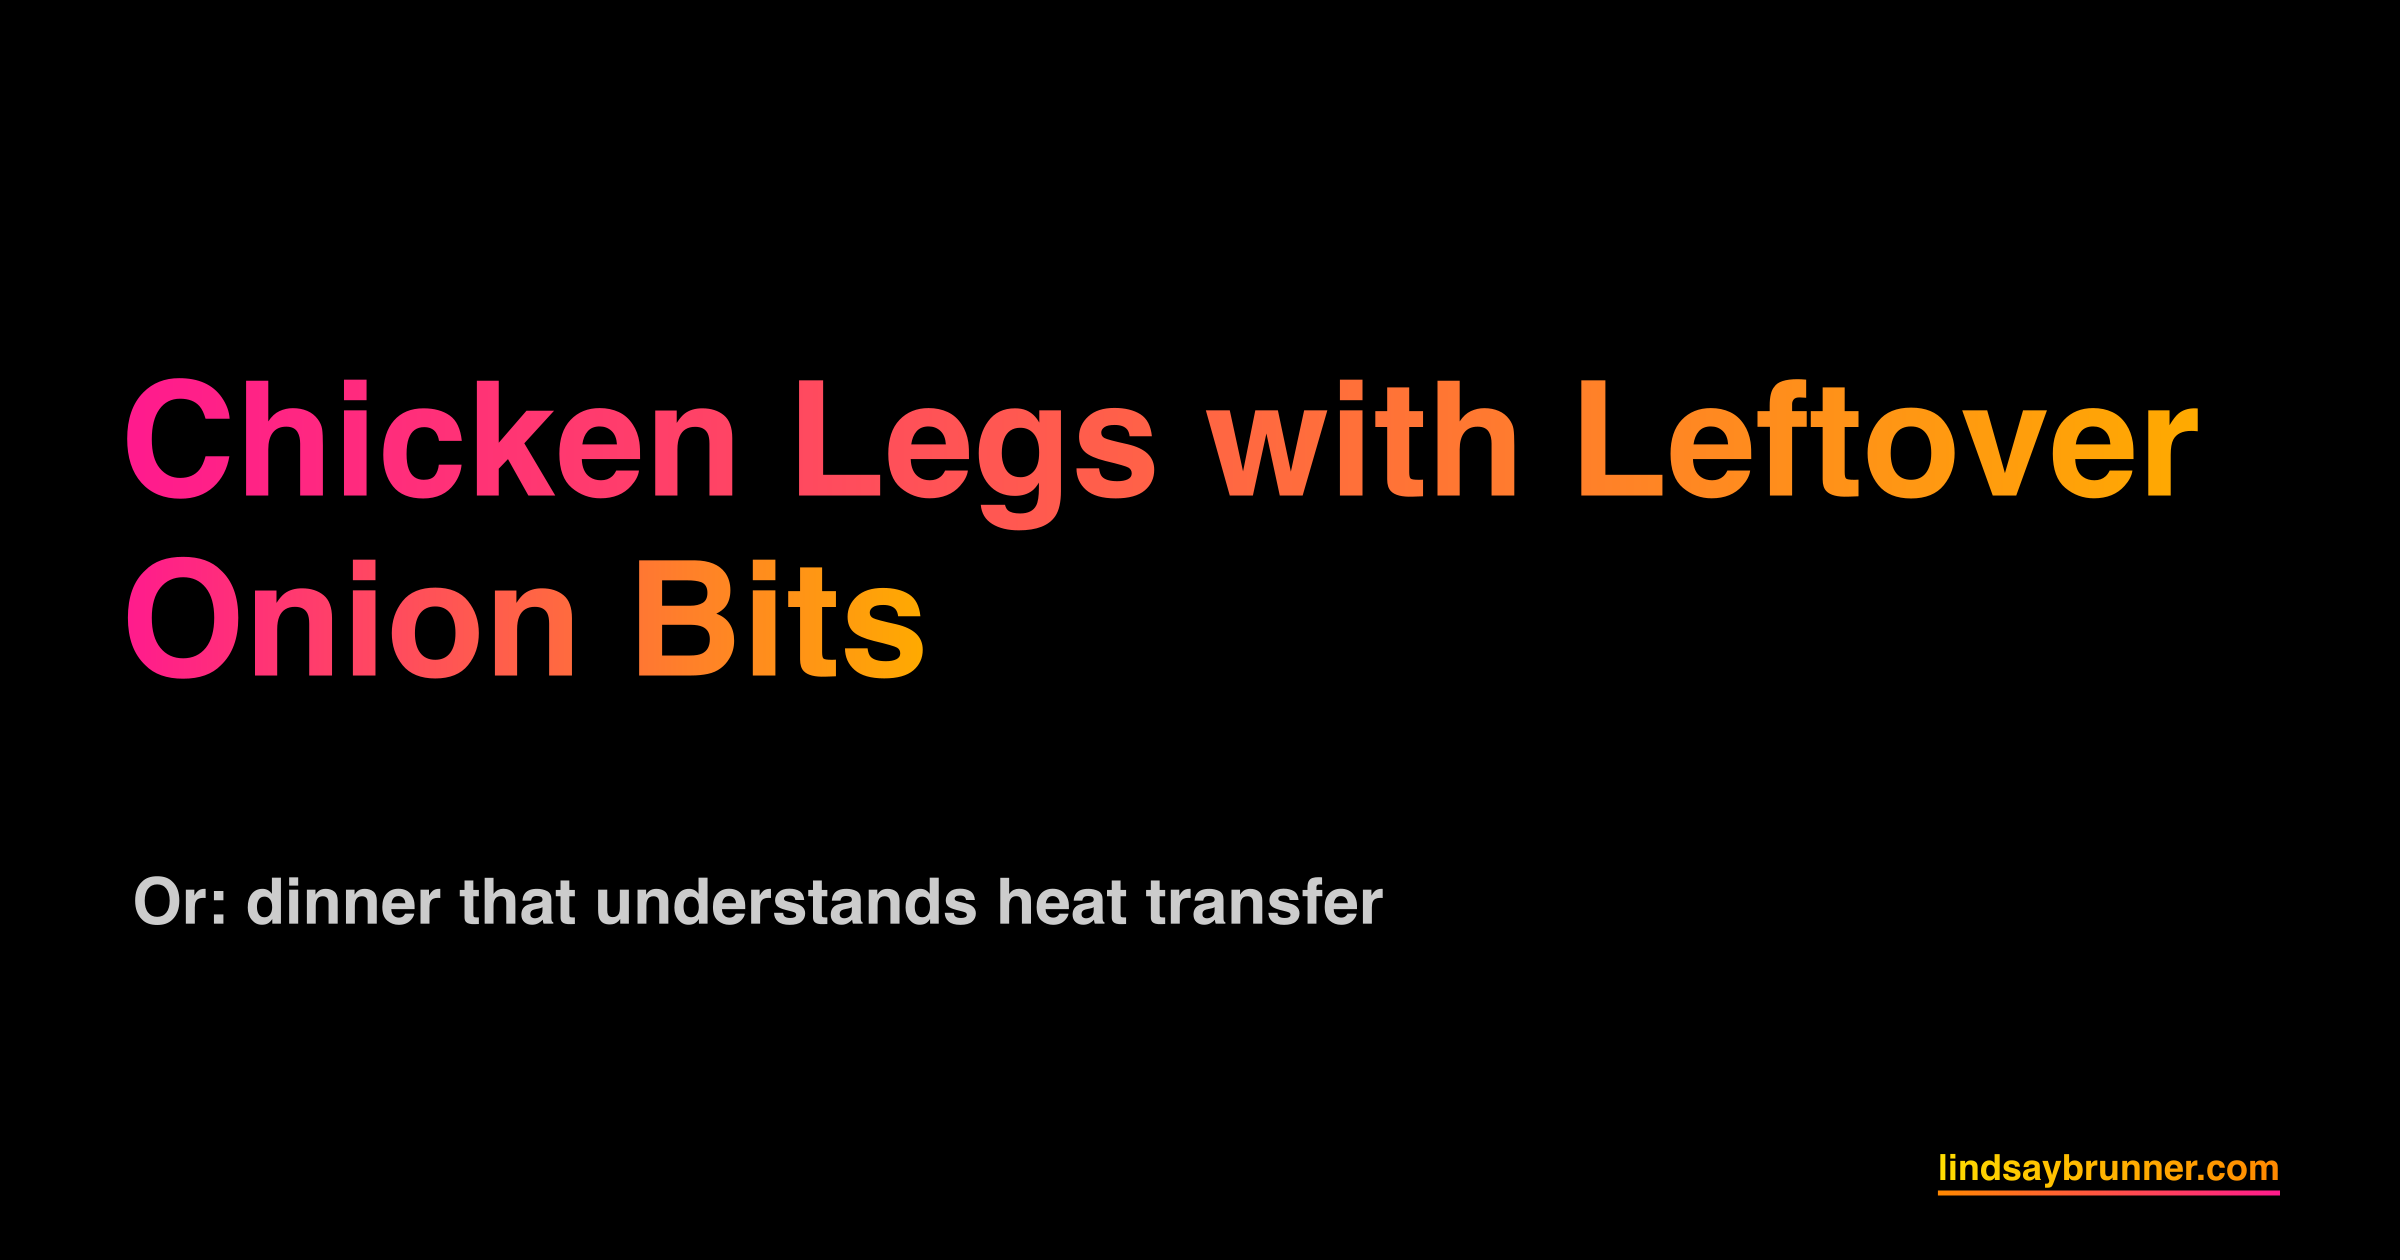
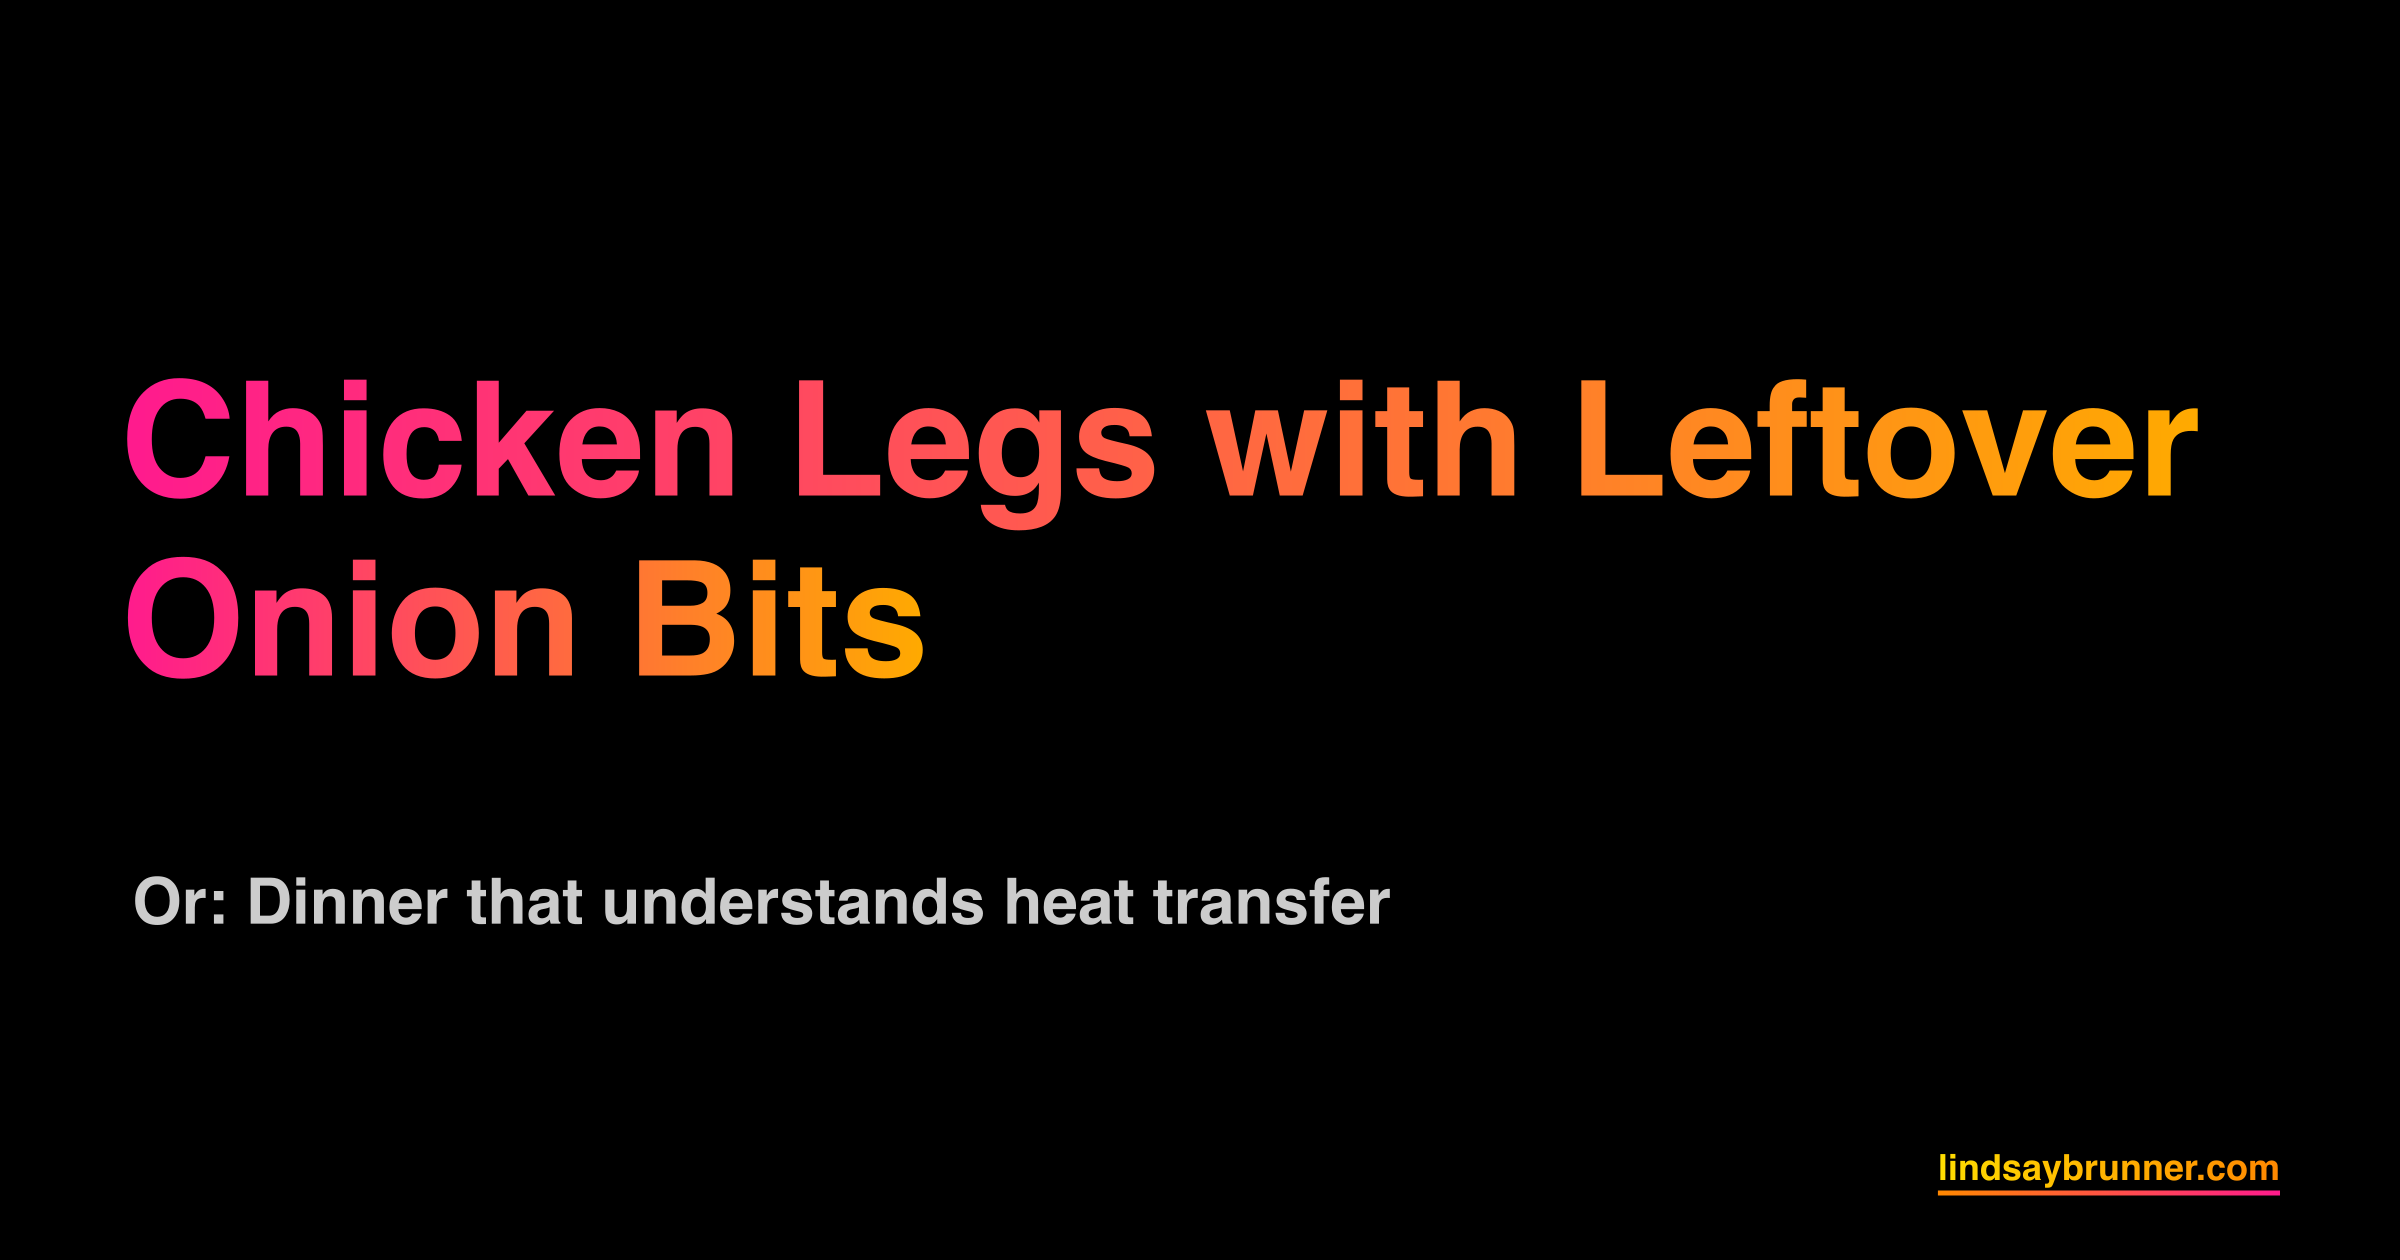
Capitalize 'Dinner' in recipe subtitle and update OG image

Changed region(s): [[0.0938, 0.681, 0.5938, 0.7429]]

diff --git a/content/recipes/recipe-chicken-legs-leftover-onion-bits.md b/content/recipes/recipe-chicken-legs-leftover-onion-bits.md
@@ -2,7 +2,7 @@
 title: "Chicken Legs with Leftover Onion Bits"
 date: 2026-01-05
 slug: "recipe-chicken-legs-leftover-onion-bits"
-subtitle: "Or: dinner that understands heat transfer"
+subtitle: "Or: Dinner that understands heat transfer"
 description: "A forgiving, physics-based method for chicken legs that works with whatever onion fragment and fat situation your fridge is currently offering."
 draft: false
 social_image: "/images/social/recipe-chicken-legs-leftover-onion-bits-og.png"
@@ -94,7 +94,7 @@ Chicken legs like to be cooked past 165°F (74°C). The connective tissue relaxe
    - Butter + higher smoke point fat: Best of both worlds. The higher smoke point fat handles heat, butter brings flavor.
    - All oil or animal fat: Works well for browning. The pan juices will be slightly leaner in flavor but still good.
 
-   If you are nervous, put some fat under the chicken and some on top. The system is robust.
+   If you're nervous, put some fat under the chicken and some on top. The system is robust.
 
 6. **Cover and cook for 45 minutes.**
 
@@ -127,7 +127,7 @@ Chicken legs like to be cooked past 165°F (74°C). The connective tissue relaxe
 
 ### Seasoning paths
 
-Chicken legs can take real seasoning. This is dark meat, not a spa protein. Here are four seasoning paths that work especially well with the covered-then-uncovered method. All are designed to bloom in steam first, then concentrate when uncovered. Pick one and commit.
+Chicken legs can take real seasoning. This is dark meat, not a spa protein. Here are four seasoning paths that work especially well with the covered-then-uncovered method. All are designed to bloom in steam first, then concentrate when uncovered. 
 
 **Option 1: Classic Savory Roast Chicken (bulletproof, cozy)**
 
